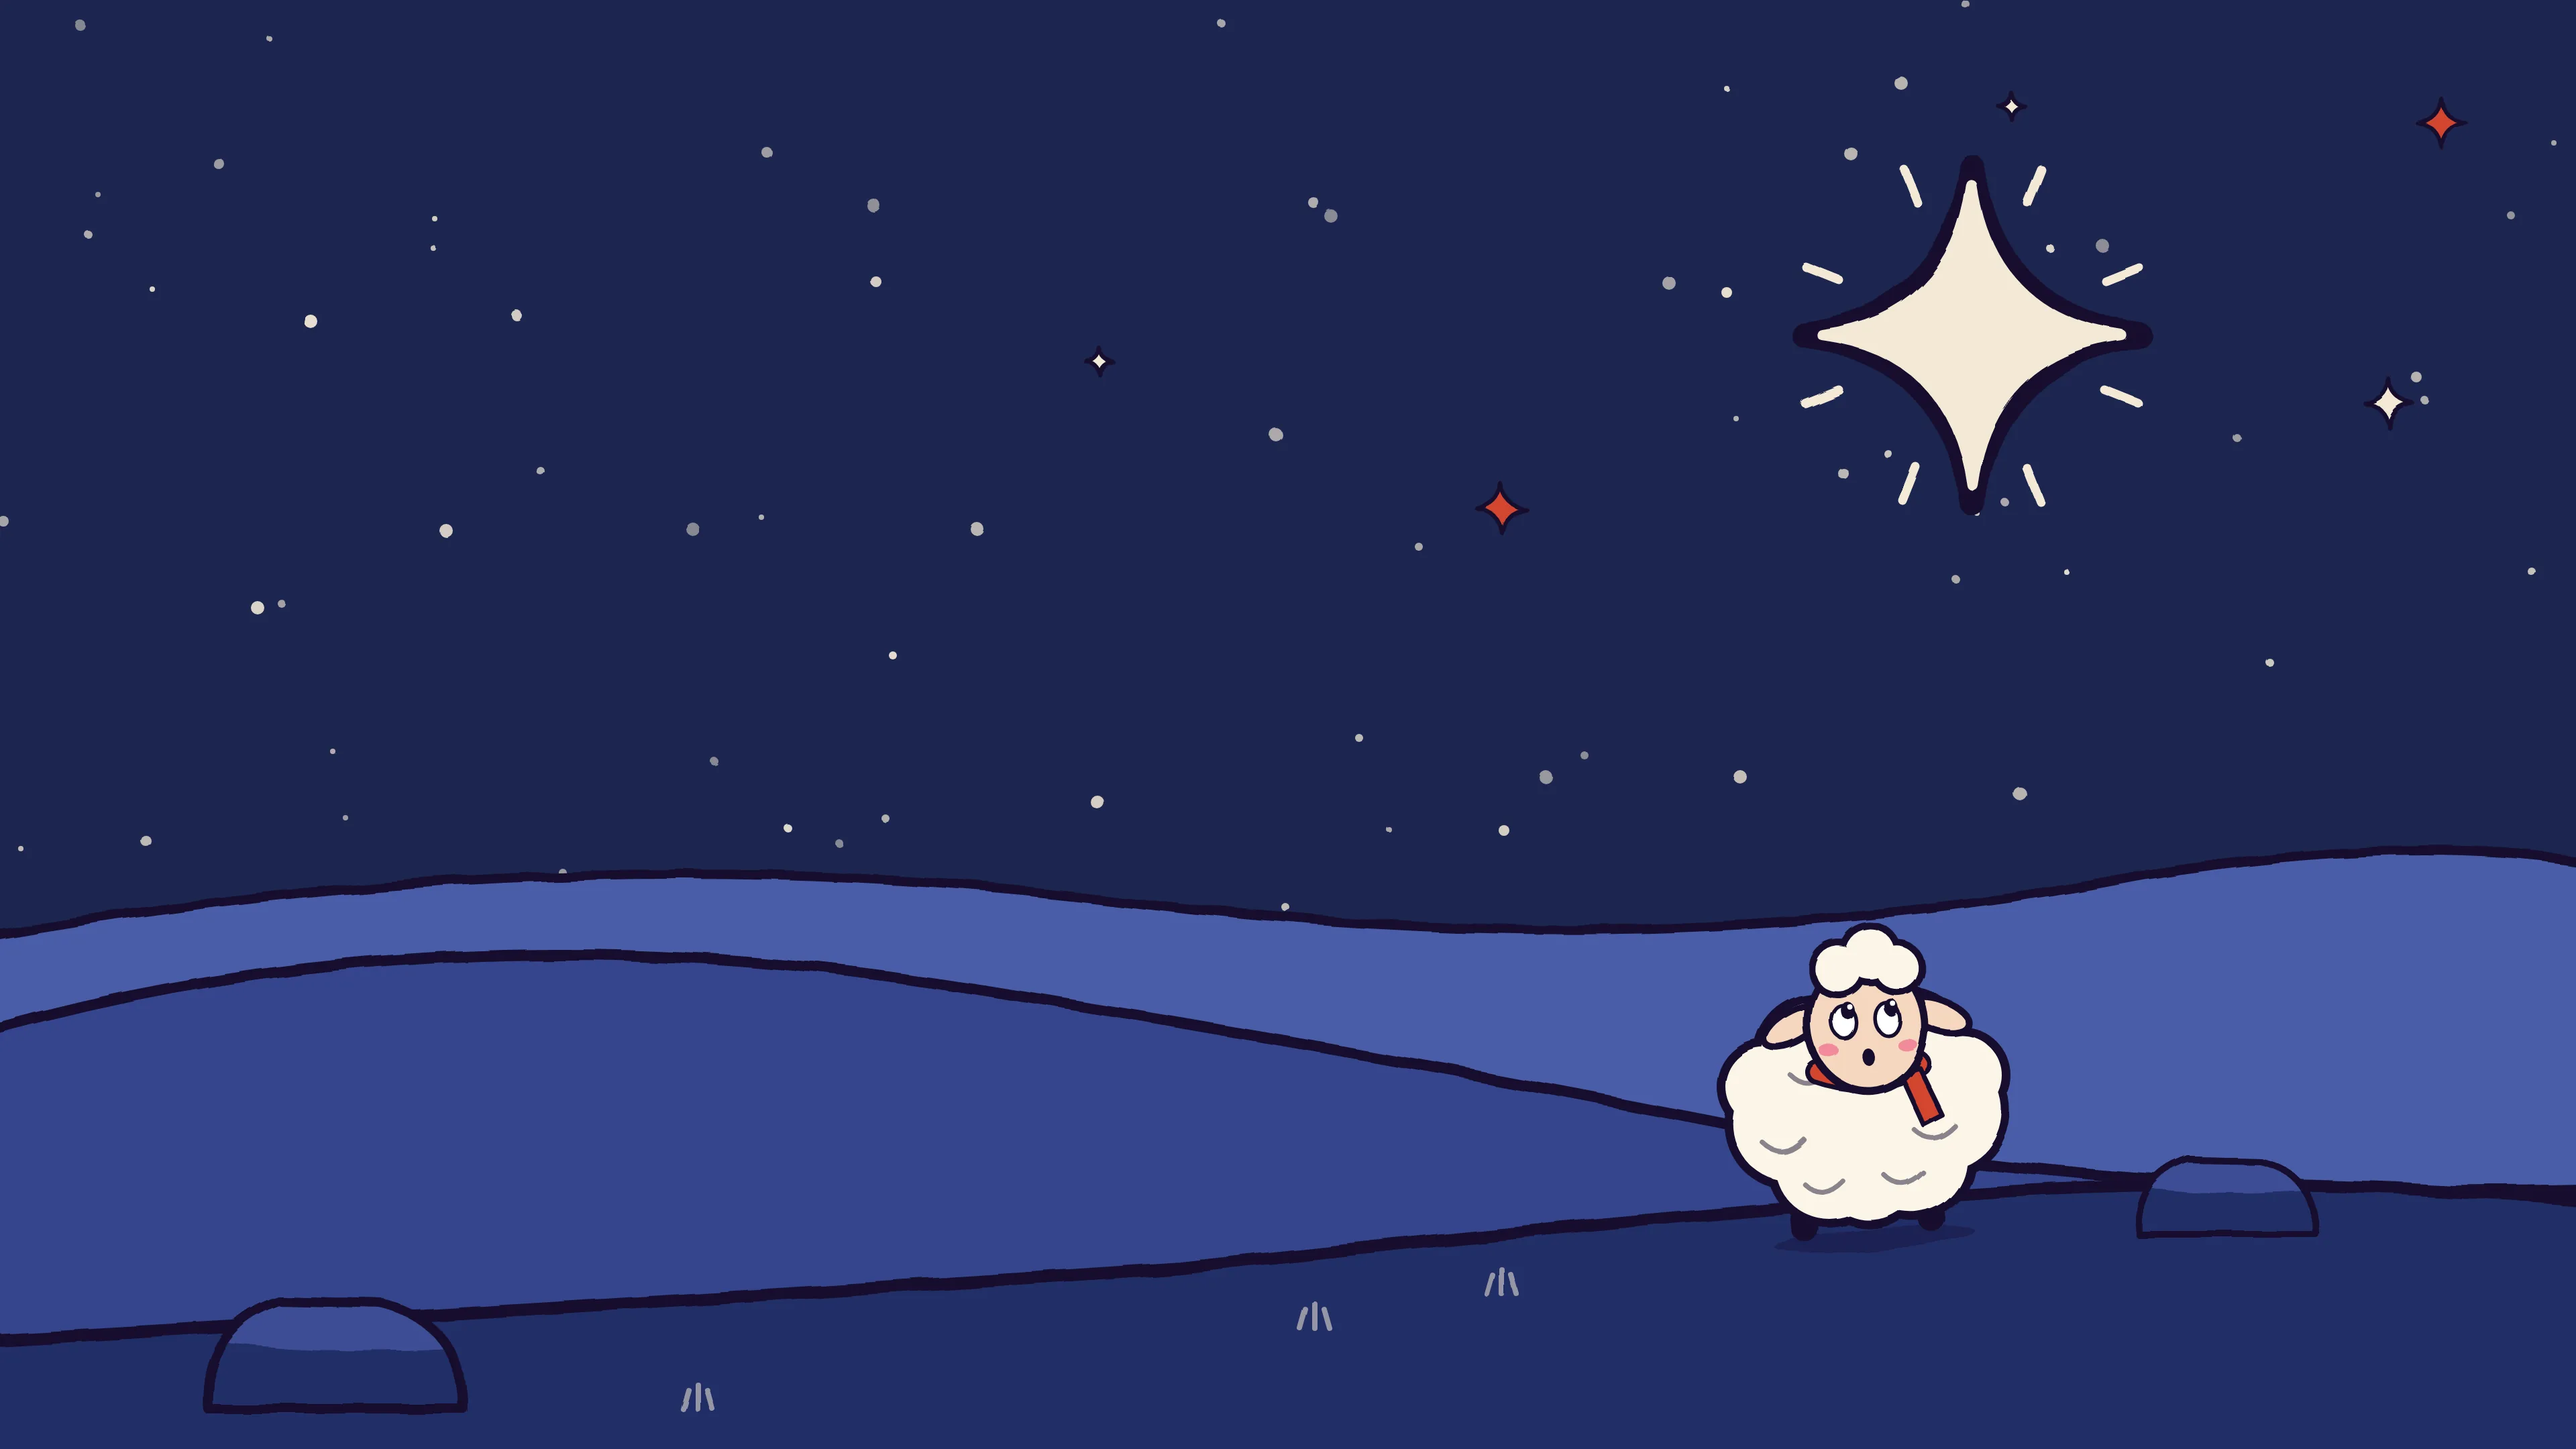
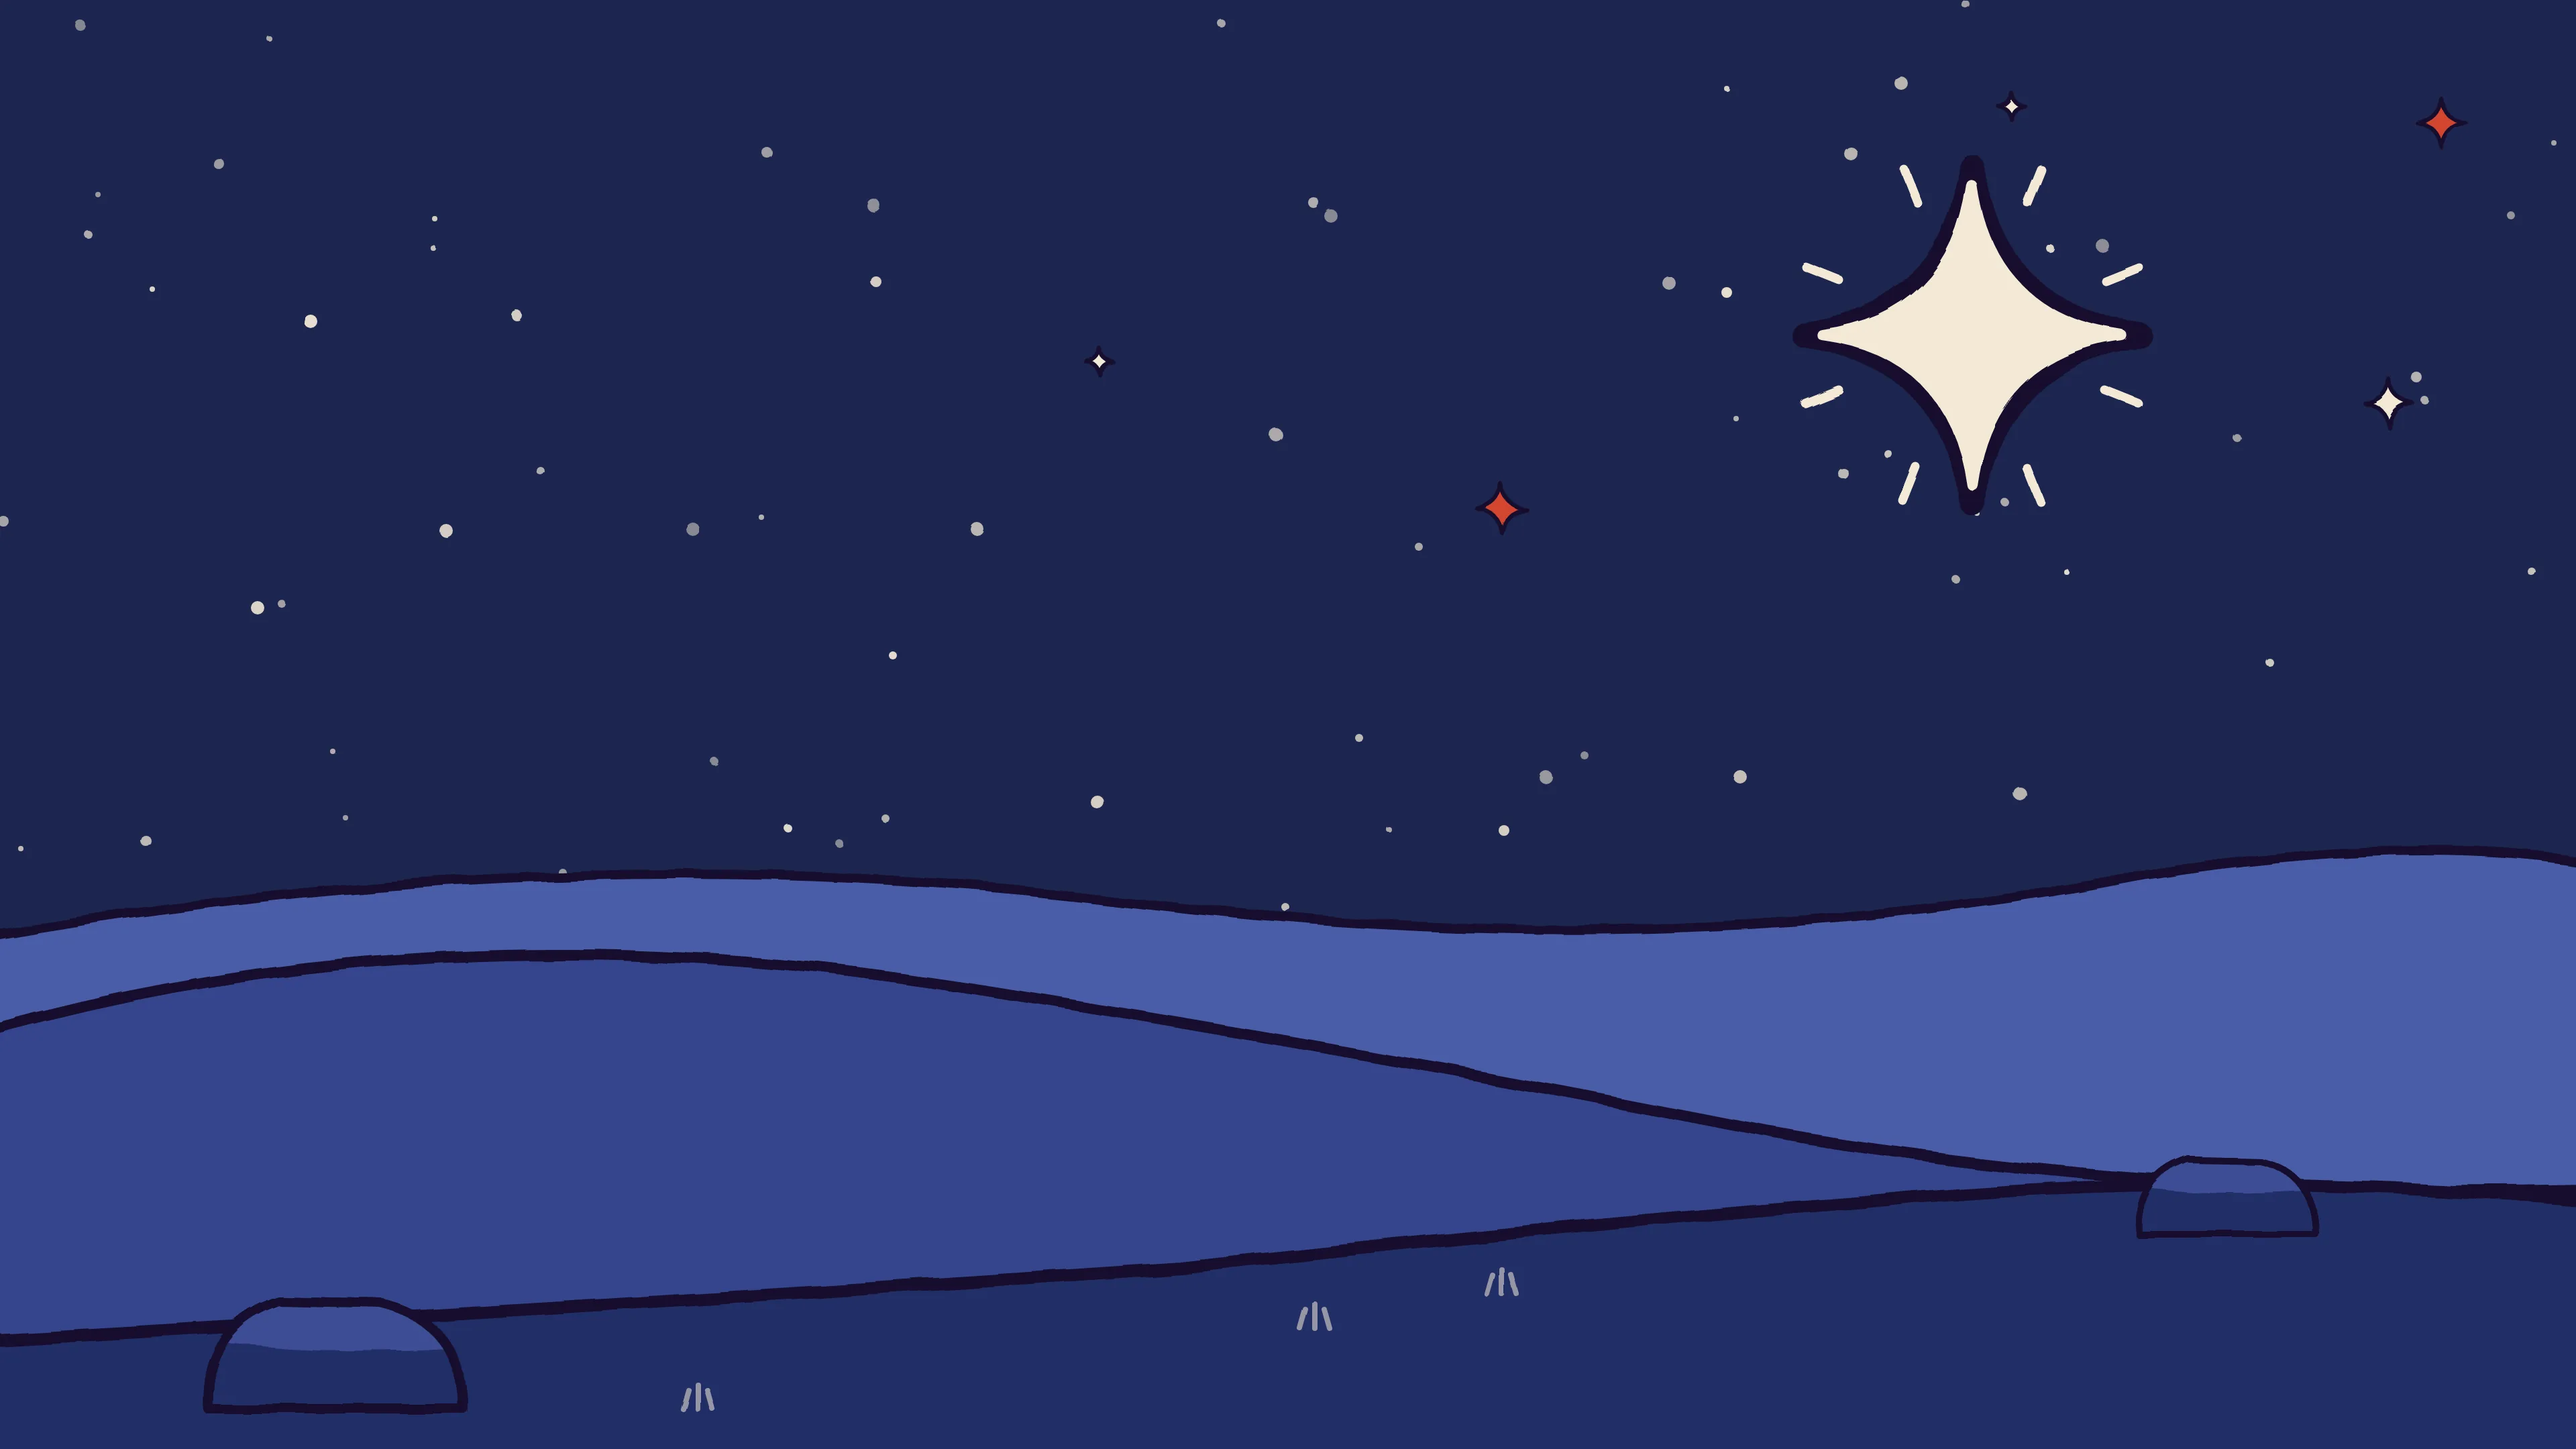
Wonder: sheep-free hero, card + sheep animations, kit candle
- Hero art re-rendered from the series canvas without the sheep
- Series cards rise in one after another when the strip first scrolls into
  view, THIS SUNDAY tag pops, small lift/tilt on hover or focus
- Peeking sheep in Every Sunday bobs and ducks now and then
- Candle from the illustration kit on the Christmas Eve card, gently swaying
- All motion is off with prefers-reduced-motion; cards stay visible without JS

Changed region(s): [[0.6562, 0.6204, 0.7812, 0.8685]]

diff --git a/src/wonder/SeriesStrip.jsx b/src/wonder/SeriesStrip.jsx
@@ -22,6 +22,29 @@ export default function SeriesStrip() {
 
   const nextSunday = today ? SERIES.find((s) => s.sunday && s.date >= today)?.date : null;
 
+  // Cards rise in one after another the first time the strip scrolls into view.
+  // The pre-rendered HTML shows them as-is; we only "arm" (hide, then animate)
+  // when the strip starts below the fold, so nothing visible ever blinks.
+  const sectionRef = useRef(null);
+  const [anim, setAnim] = useState('off'); // off | armed | in
+  useEffect(() => {
+    const el = sectionRef.current;
+    if (!el || typeof IntersectionObserver === 'undefined') return undefined;
+    if (window.matchMedia('(prefers-reduced-motion: reduce)').matches) return undefined;
+    if (el.getBoundingClientRect().top < window.innerHeight) return undefined;
+    setAnim('armed');
+    const io = new IntersectionObserver(
+      ([entry]) => {
+        if (!entry.isIntersecting) return;
+        setAnim('in');
+        io.disconnect();
+      },
+      { threshold: 0.25 }
+    );
+    io.observe(el);
+    return () => io.disconnect();
+  }, []);
+
   // Phones show the list as a sideways row: start it at this week's card.
   useEffect(() => {
     const list = listRef.current;
@@ -31,7 +54,12 @@ export default function SeriesStrip() {
   }, [nextSunday]);
 
   return (
-    <section id="wonder" className="wonder-strip relative overflow-hidden pt-14 md:pt-20" aria-labelledby="wonder-strip-title">
+    <section
+      ref={sectionRef}
+      id="wonder"
+      className={`wonder-strip relative overflow-hidden pt-14 md:pt-20 ${anim === 'armed' ? 'is-armed' : ''} ${anim === 'in' ? 'is-in' : ''}`}
+      aria-labelledby="wonder-strip-title"
+    >
       {/* Big star across from the title, like the hero: Wonder left, star right */}
       <img
         src="/images/wonder/star.svg"
@@ -54,7 +82,7 @@ export default function SeriesStrip() {
         </h2>
 
         <ol ref={listRef} className="grid grid-cols-2 sm:grid-cols-4 xl:grid-cols-7 gap-3 md:gap-4">
-          {SERIES.map((s) => {
+          {SERIES.map((s, i) => {
             const p = parts(s.date);
             const past = today && s.date < today;
             const isNext = s.date === nextSunday;
@@ -62,6 +90,7 @@ export default function SeriesStrip() {
               <li
                 key={s.date}
                 id={s.id}
+                style={{ '--i': i }}
                 className={`wonder-card ${past ? 'is-past' : ''} ${isNext ? 'is-next' : ''}`}
               >
                 {isNext && <span className="wonder-tag">This Sunday</span>}
@@ -71,6 +100,17 @@ export default function SeriesStrip() {
                 <p className="wonder-card-title">{s.label}</p>
                 {s.sunday && <p className="wonder-card-note">10:00 AM</p>}
                 {s.note && <p className="wonder-card-note">{s.note}</p>}
+                {s.id === 'christmas-eve' && (
+                  <img
+                    src="/images/wonder/candle.svg"
+                    alt=""
+                    aria-hidden="true"
+                    width="44"
+                    height="44"
+                    loading="lazy"
+                    className="wonder-candle"
+                  />
+                )}
               </li>
             );
           })}

diff --git a/src/wonder/wonder.css b/src/wonder/wonder.css
@@ -88,8 +88,8 @@ footer.wonder-footer::after {
 .wonder-slide {
   background: var(--w-night);
 }
-/* Portrait screens (phones, tablets): crop toward the right so the sheep and
-   the star stay in frame. Wide screens see the whole picture. */
+/* Portrait screens (phones, tablets): crop toward the right so the star stays
+   in frame. Wide screens see the whole picture. */
 .wonder-slide-img {
   object-position: 74% center;
 }
@@ -490,4 +490,77 @@ footer.wonder-footer .border-fc-cream\/10 {
   .wonder-btn:hover {
     transform: none;
   }
+}
+
+/* ── Gentle motion (all off with reduced motion) ──────────────────────── */
+/* Christmas Eve card: the candle from the illustration kit */
+.wonder-candle {
+  position: absolute;
+  right: 0.5rem;
+  bottom: 0.5rem;
+  width: 2.75rem;
+  height: 2.75rem;
+  pointer-events: none;
+  transform-origin: 50% 85%;
+}
+
+@media (prefers-reduced-motion: no-preference) {
+  /* Series cards rise in, one after another, when the strip first shows */
+  .wonder-strip.is-armed .wonder-card {
+    opacity: 0;
+  }
+  .wonder-strip.is-in .wonder-card {
+    animation: wonder-card-in 520ms cubic-bezier(0.2, 0.8, 0.2, 1) backwards;
+    animation-delay: calc(var(--i, 0) * 70ms);
+  }
+  .wonder-strip.is-in .wonder-tag {
+    animation: wonder-tag-pop 420ms cubic-bezier(0.3, 1.6, 0.5, 1) backwards;
+    animation-delay: 650ms;
+  }
+  /* Hover/focus: a small paper lift and tilt (no shadows) */
+  .wonder-card {
+    transition: transform 220ms ease, opacity 200ms;
+  }
+  .wonder-card:hover,
+  .wonder-card:focus-within {
+    transform: translateY(-4px) rotate(-1deg);
+  }
+  .wonder-card:nth-child(even):hover,
+  .wonder-card:nth-child(even):focus-within {
+    transform: translateY(-4px) rotate(1deg);
+  }
+
+  /* Candle sways a little, like the flame is moving */
+  .wonder-candle {
+    animation: wonder-sway 3.2s ease-in-out infinite;
+  }
+
+  /* Peeking sheep: bobs, then ducks down for a moment and pops back up */
+  .wonder-sheep img {
+    animation: wonder-peek 9s ease-in-out infinite;
+    transform-origin: 50% 100%;
+  }
+}
+
+@keyframes wonder-card-in {
+  from { opacity: 0; transform: translateY(16px) rotate(-1.5deg); }
+  to { transform: none; }
+}
+@keyframes wonder-tag-pop {
+  0% { transform: scale(0.4) rotate(-8deg); opacity: 0; }
+  100% { transform: none; opacity: 1; }
+}
+@keyframes wonder-sway {
+  0%, 100% { transform: rotate(-2deg); }
+  50% { transform: rotate(2deg); }
+}
+@keyframes wonder-peek {
+  0%, 100% { transform: translateY(0) rotate(0); }
+  20% { transform: translateY(-2px) rotate(-3deg); }
+  40% { transform: translateY(0) rotate(2deg); }
+  60% { transform: translateY(0) rotate(0); }
+  70% { transform: translateY(34px); }
+  78% { transform: translateY(34px); }
+  86% { transform: translateY(-3px); }
+  92% { transform: translateY(0); }
 }
